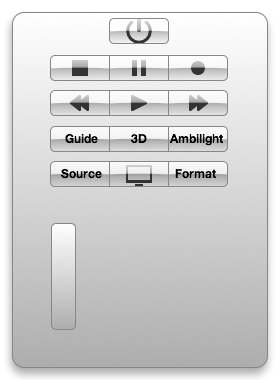
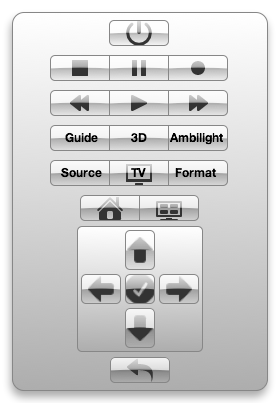
Brand-new design. With arrow-pad

Changed region(s): [[0.0571, 0.1158, 0.9429, 0.9842], [0.0286, 0.0289, 0.9714, 0.0579], [0.4, 0.0868, 0.6, 0.1158]]

diff --git a/philips-remote.dcproj/project/widget.wdgt/main.html b/philips-remote.dcproj/project/widget.wdgt/main.html
@@ -13,9 +13,10 @@
 <body onload="load();" apple-part="com.apple.Dashcode.part.StackLayout">
     <div id="front">
         <img id="frontImg" src="Parts/Images/front.png" alt="" apple-locked="true" apple-part="com.apple.Dashcode.part.frontimage" apple-style="image-theme: 1; image-shape: 3; image-opacity: 1.00; image-top-color: 1.0000,1.0000,1.0000; image-bottom-color: 0.6154,0.6154,0.6154; image-radius: 12,12,12,12; image-border: 1; image-border-color: 0.5294,0.5294,0.5294; image-border-width: 1; shine-strength: 0.9; shine-alpha-level: 0.67; shine-height: 0.50; glass-arc-height: 0.06; shadow-include-shadow: 1; shadow-blur: 9.00; shadow-offset: -1.00,-6.00; shadow-color: 0.0000,0.0000,0.0000,0.3333;">
+        <div id="rectangleShape" apple-part="com.apple.Dashcode.part.roundedrectangleshape" class="apple-no-children" apple-style="image-theme: 1; image-shape: 3; image-button-type: 3; image-opacity: 1.00; image-top-color: 1,1,1,1; image-bottom-color: 0.6154,0.6154,0.6154,1; image-radius: 5,5,5,5; image-border: 1; image-border-color: 0.5294,0.5294,0.5294,1; image-border-width: 1; shine-strength: 0.90; shine-alpha-level: 0.67; shine-height: 0.50; glass-arc-height: 0.06; embossed-on: 0; embossed-depth: 1; embossed-shadow: 0.68; embossed-highlight: 0.3; shadow-include-shadow: 0;"></div>
         <div class="apple-no-children" id="info" apple-part="com.apple.Dashcode.part.infobutton" apple-default-image-visibility="hidden"></div>
-        <div id="rectangleShape" apple-part="com.apple.Dashcode.part.roundedrectangleshape" class="apple-no-children" apple-style="image-theme: 1; image-shape: 3; image-button-type: 3; image-opacity: 1.00; image-top-color: 1,1,1,1; image-bottom-color: 0.6154,0.6154,0.6154,1; image-radius: 5,5,5,5; image-border: 1; image-border-color: 0.5294,0.5294,0.5294,1; image-border-width: 1; shine-strength: 0.90; shine-alpha-level: 0.67; shine-height: 0.50; glass-arc-height: 0.06; shadow-include-shadow: 0;"></div>
-        <div id="box" apple-part="com.apple.Dashcode.part.box">
+        <div id="extend" apple-part="com.apple.Dashcode.part.infobutton" class="info apple-no-children" apple-default-image-visibility="hidden"></div>
+        <div id="box0" apple-part="com.apple.Dashcode.part.box">
             <div id="bP" apple-part="com.apple.Dashcode.part.roundedtextbutton" class="apple-no-children" apple-style="image-theme: 2; image-shape: 3; image-button-type: 0; image-opacity: 1.00; image-top-color: 1,1,1,1; image-bottom-color: 0.6154,0.6154,0.6154,1; image-radius: 5,5,5,5; image-border: 1; image-border-color: 0.5294,0.5294,0.5294,1; image-border-width: 1; shine-on: 1; shine-strength: 0.90; shine-alpha-level: 0.67; shine-height: 0.50; glass-arc-height: 0.06; image-include-custom: 1; image-custom-image-path: bP.png; image-custom-center: 1; image-custom-resize: 2; shadow-include-shadow: 0;"></div>
         </div>
         <div id="box1" apple-part="com.apple.Dashcode.part.box">
@@ -37,6 +38,20 @@
             <div id="bLeft4" apple-part="com.apple.Dashcode.part.roundedleftbutton" class="apple-no-children" apple-style="image-theme: 2; image-shape: 5; image-button-type: 0; image-opacity: 1.00; image-top-color: 1,1,1,1; image-bottom-color: 0.6154,0.6154,0.6154,1; image-radius: 5,-1,5,-1; image-border: 1; image-border-color: 0.5294,0.5294,0.5294,1; image-border-width: 1; shine-on: 1; shine-strength: 0.90; shine-alpha-level: 0.67; shine-height: 0.50; glass-arc-height: 0.06; embossed-on: 0; embossed-depth: 1; embossed-shadow: 0.68; embossed-highlight: 0.3; image-include-custom: 1; shadow-include-shadow: 0;"></div>
             <div id="bRight4" apple-part="com.apple.Dashcode.part.roundedrightbutton" class="apple-no-children" apple-style="image-theme: 2; image-shape: 6; image-button-type: 0; image-opacity: 1.00; image-top-color: 1,1,1,1; image-bottom-color: 0.6154,0.6154,0.6154,1; image-radius: -1,5,-1,5; image-border: 1; image-border-color: 0.5294,0.5294,0.5294,1; image-border-width: 1; shine-on: 1; shine-strength: 0.90; shine-alpha-level: 0.67; shine-height: 0.50; glass-arc-height: 0.06; image-include-custom: 1; shadow-include-shadow: 0;"></div>
             <div id="bMid4" apple-part="com.apple.Dashcode.part.roundedtextbutton" class="apple-no-children" apple-style="image-theme: 2; image-shape: 3; image-button-type: 0; image-opacity: 1.00; image-top-color: 1,1,1,1; image-bottom-color: 0.6154,0.6154,0.6154,1; image-radius: 0,0,0,0; image-border: 1; image-border-color: 0.5294,0.5294,0.5294,1; image-border-width: 1; shine-on: 1; shine-strength: 0.90; shine-alpha-level: 0.67; shine-height: 0.50; glass-arc-height: 0.06; image-include-custom: 1; image-custom-image-path: bMid4 2.png; image-custom-center: 1; image-custom-resize: 2; shadow-include-shadow: 0;"></div>
+        </div>
+        <div id="box5" apple-part="com.apple.Dashcode.part.box">
+            <div id="bLeft5" apple-part="com.apple.Dashcode.part.roundedleftbutton" class="apple-no-children" apple-style="image-theme: 2; image-shape: 5; image-button-type: 0; image-opacity: 1.00; image-top-color: 1,1,1,1; image-bottom-color: 0.6154,0.6154,0.6154,1; image-radius: 5,-1,5,-1; image-border: 1; image-border-color: 0.5294,0.5294,0.5294,1; image-border-width: 1; shine-on: 1; shine-strength: 0.90; shine-alpha-level: 0.67; shine-height: 0.50; glass-arc-height: 0.06; embossed-on: 0; embossed-depth: 1; embossed-shadow: 0.68; embossed-highlight: 0.3; image-include-custom: 1; image-custom-image-path: bLeft5.png; image-custom-center: 1; image-custom-resize: 2; shadow-include-shadow: 0;"></div>
+            <div id="bRight5" apple-part="com.apple.Dashcode.part.roundedrightbutton" class="apple-no-children" apple-style="image-theme: 2; image-shape: 6; image-button-type: 0; image-opacity: 1.00; image-top-color: 1,1,1,1; image-bottom-color: 0.6154,0.6154,0.6154,1; image-radius: -1,5,-1,5; image-border: 1; image-border-color: 0.5294,0.5294,0.5294,1; image-border-width: 1; shine-on: 1; shine-strength: 0.90; shine-alpha-level: 0.67; shine-height: 0.50; glass-arc-height: 0.06; image-include-custom: 1; image-custom-image-path: bRight5.png; image-custom-center: 1; image-custom-resize: 2; shadow-include-shadow: 0;"></div>
+        </div>
+        <div id="box6" apple-part="com.apple.Dashcode.part.box">
+            <div id="bP1" apple-part="com.apple.Dashcode.part.roundedtextbutton" class="apple-no-children" apple-style="image-theme: 2; image-shape: 3; image-button-type: 0; image-opacity: 1.00; image-top-color: 1,1,1,1; image-bottom-color: 0.6154,0.6154,0.6154,1; image-radius: 5,5,5,5; image-border: 1; image-border-color: 0.5294,0.5294,0.5294,1; image-border-width: 1; shine-on: 1; shine-strength: 0.90; shine-alpha-level: 0.67; shine-height: 0.50; glass-arc-height: 0.06; image-include-custom: 1; image-custom-image-path: bP1.png; image-custom-center: 1; image-custom-resize: 2; shadow-include-shadow: 0;"></div>
+        </div>
+        <div id="box7" apple-part="com.apple.Dashcode.part.roundedbox">
+            <div id="button1" apple-part="com.apple.Dashcode.part.roundedtextbutton" class="apple-no-children" apple-style="image-theme: 2; image-shape: 3; image-button-type: 0; image-opacity: 1.00; image-top-color: 1,1,1,1; image-bottom-color: 0.6154,0.6154,0.6154,1; image-radius: 5,5,5,5; image-border: 1; image-border-color: 0.5294,0.5294,0.5294,1; image-border-width: 1; shine-on: 1; shine-strength: 0.90; shine-alpha-level: 0.67; shine-height: 0.50; glass-arc-height: 0.06; embossed-on: 0; embossed-depth: 1; embossed-shadow: 0.68; embossed-highlight: 0.3; image-include-custom: 1; image-custom-image-path: button1.png; image-custom-center: 1; image-custom-resize: 2; shadow-include-shadow: 0;"></div>
+            <div id="button2" apple-part="com.apple.Dashcode.part.roundedtextbutton" class="apple-no-children" apple-style="image-theme: 2; image-shape: 3; image-button-type: 0; image-opacity: 1.00; image-top-color: 1,1,1,1; image-bottom-color: 0.6154,0.6154,0.6154,1; image-radius: 5,5,5,5; image-border: 1; image-border-color: 0.5294,0.5294,0.5294,1; image-border-width: 1; shine-on: 1; shine-strength: 0.90; shine-alpha-level: 0.67; shine-height: 0.50; glass-arc-height: 0.06; image-include-custom: 1; image-custom-image-path: button2 1.png; image-custom-center: 1; image-custom-resize: 2; shadow-include-shadow: 0;"></div>
+            <div id="button3" apple-part="com.apple.Dashcode.part.roundedtextbutton" class="apple-no-children" apple-style="image-theme: 2; image-shape: 3; image-button-type: 0; image-opacity: 1.00; image-top-color: 1,1,1,1; image-bottom-color: 0.6154,0.6154,0.6154,1; image-radius: 5,5,5,5; image-border: 1; image-border-color: 0.5294,0.5294,0.5294,1; image-border-width: 1; shine-on: 1; shine-strength: 0.90; shine-alpha-level: 0.67; shine-height: 0.50; glass-arc-height: 0.06; image-include-custom: 1; image-custom-image-path: button3.png; image-custom-center: 1; image-custom-resize: 2; shadow-include-shadow: 0;"></div>
+            <div id="button4" apple-part="com.apple.Dashcode.part.roundedtextbutton" class="apple-no-children" apple-style="image-theme: 2; image-shape: 3; image-button-type: 0; image-opacity: 1.00; image-top-color: 1,1,1,1; image-bottom-color: 0.6154,0.6154,0.6154,1; image-radius: 5,5,5,5; image-border: 1; image-border-color: 0.5294,0.5294,0.5294,1; image-border-width: 1; shine-on: 1; shine-strength: 0.90; shine-alpha-level: 0.67; shine-height: 0.50; glass-arc-height: 0.06; image-include-custom: 1; image-custom-image-path: button4.png; image-custom-center: 1; image-custom-resize: 2; shadow-include-shadow: 0;"></div>
+            <div id="button" apple-part="com.apple.Dashcode.part.roundedtextbutton" class="apple-no-children" apple-style="image-theme: 2; image-shape: 3; image-button-type: 0; image-opacity: 1.00; image-top-color: 1,1,1,1; image-bottom-color: 0.6154,0.6154,0.6154,1; image-radius: 5,5,5,5; image-border: 1; image-border-color: 0.5294,0.5294,0.5294,1; image-border-width: 1; shine-on: 1; shine-strength: 0.90; shine-alpha-level: 0.67; shine-height: 0.50; glass-arc-height: 0.06; image-include-custom: 1; image-custom-image-path: button 3.png; image-custom-center: 1; image-custom-resize: 2; shadow-include-shadow: 0;"></div>
         </div>
     </div>
     <div id="back">

diff --git a/philips-remote.dcproj/project/widget.wdgt/main.css b/philips-remote.dcproj/project/widget.wdgt/main.css
@@ -93,14 +93,12 @@ body {
 }
 
 #rectangleShape {
-    width: 25px;
-    height: 107px;
+    width: 126px;
+    height: 126px;
     position: absolute;
-    left: 51px;
-    top: 223px;
+    left: 77px;
     right: auto;
-    bottom: auto;
-    margin-top: 0px;
+    top: 226px;
 }
 
 #box1 {
@@ -194,7 +192,7 @@ body {
     height: 36px;
     position: absolute;
     left: 47px;
-    top: 121px;
+    top: 120px;
     margin-top: 0px;
 }
 
@@ -253,7 +251,7 @@ body {
     height: 36px;
     position: absolute;
     left: 47px;
-    top: 156px;
+    top: 155px;
     margin-top: 0px;
 }
 
@@ -304,14 +302,14 @@ body {
     margin-top: 0px;
 }
 
-#box {
+#box0 {
     border-color: black;
     border-width: 1px;
-    width: 70px;
+    width: 184px;
     height: 36px;
     position: absolute;
-    left: 104px;
-    top: 13px;
+    left: 47px;
+    top: 15px;
     margin-top: 0px;
 }
 
@@ -324,8 +322,180 @@ body {
     -khtml-user-select: none;
     height: 26px;
     position: absolute;
-    left: 5px;
+    left: 62px;
     top: 5px;
     right: auto;
+    margin-top: 0px;
+}
+
+#box5 {
+    border-width: 3px !important;
+    border-color: black;
+    width: 184px;
+    height: 36px;
+    position: absolute;
+    left: 47px;
+    top: 190px;
+    margin-top: 0px;
+}
+
+#bLeft5 {
+    font-family: HelveticaNeue-Bold;
+    font-size: 12px;
+    text-align: center;
+    width: 60px;
+    height: 26px;
+    cursor: default;
+    -khtml-user-select: none;
+    position: absolute;
+    left: 33px;
+    top: 5px;
+    right: auto;
+    bottom: auto;
+    margin-top: 0px;
+}
+
+#bRight5 {
+    font-family: HelveticaNeue-Bold;
+    font-size: 12px;
+    text-align: center;
+    width: 60px;
+    height: 26px;
+    -khtml-user-select: none;
+    position: absolute;
+    left: 92px;
+    top: 5px;
+    right: auto;
+    bottom: auto;
+    margin-top: 0px;
+    cursor: default;
+}
+
+#box6 {
+    border-color: black;
+    border-width: 1px;
+    width: 184px;
+    height: 36px;
+    position: absolute;
+    left: 48px;
+    top: 352px;
+}
+
+#bP1 {
+    font-family: HelveticaNeue-Bold;
+    font-size: 12px;
+    text-align: center;
+    width: 60px;
+    cursor: default;
+    -khtml-user-select: none;
+    height: 26px;
+    position: absolute;
+    left: 62px;
+    top: 5px;
+    right: auto;
+    margin-top: 0px;
+}
+
+#box7 {
+    border-width: 1px;
+    border-color: rgb(172, 172, 172);
+    border-top-left-radius: 8px;
+    border-top-right-radius: 8px;
+    border-bottom-right-radius: 8px;
+    border-bottom-left-radius: 8px;
+    width: 118px;
+    height: 118px;
+    position: absolute;
+    left: 81px;
+    top: 230px;
+    right: 0px;
+    margin-top: 0px;
+}
+
+#button1 {
+    font-family: HelveticaNeue-Bold;
+    font-size: 12px;
+    text-align: center;
+    width: 30px;
+    cursor: default;
+    -khtml-user-select: none;
+    height: 40px;
+    position: absolute;
+    left: 44px;
+    top: 0px;
+    right: auto;
+    margin-top: 0px;
+}
+
+#button2 {
+    font-family: HelveticaNeue-Bold;
+    font-size: 12px;
+    text-align: center;
+    width: 40px;
+    cursor: default;
+    -khtml-user-select: none;
+    height: 30px;
+    position: absolute;
+    left: 78px;
+    top: 44px;
+    right: auto;
+    margin-top: 0px;
+    min-height: 30px;
+}
+
+#button3 {
+    font-family: HelveticaNeue-Bold;
+    font-size: 12px;
+    text-align: center;
+    width: 30px;
+    cursor: default;
+    -khtml-user-select: none;
+    height: 40px;
+    position: absolute;
+    left: 44px;
+    top: 78px;
+    right: auto;
+    margin-top: 0px;
+    min-height: 30px;
+}
+
+#button4 {
+    font-family: HelveticaNeue-Bold;
+    font-size: 12px;
+    text-align: center;
+    width: 40px;
+    cursor: default;
+    -khtml-user-select: none;
+    height: 30px;
+    position: absolute;
+    left: 0px;
+    top: 44px;
+    right: auto;
+    margin-top: 0px;
+    min-height: 30px;
+}
+
+#button {
+    font-family: HelveticaNeue-Bold;
+    font-size: 12px;
+    text-align: center;
+    width: 30px;
+    cursor: default;
+    -khtml-user-select: none;
+    height: 30px;
+    position: absolute;
+    left: 44px;
+    top: 44px;
+    margin-top: 0px;
+}
+
+#extend {
+    width: 13px;
+    height: 13px;
+    position: absolute;
+    left: 18px;
+    top: 372px;
+    right: auto;
+    bottom: auto;
     margin-top: 0px;
 }

diff --git a/philips-remote.dcproj/project/widget.wdgt/Parts/setup.js b/philips-remote.dcproj/project/widget.wdgt/Parts/setup.js
@@ -9,17 +9,28 @@ var dashcodePartSpecs = {
     "bLeft2": { "creationFunction": "CreateButton", "leftImageWidth": 5, "rightImageWidth": 1 },
     "bLeft3": { "creationFunction": "CreateButton", "leftImageWidth": 5, "rightImageWidth": 1, "text": "Guide" },
     "bLeft4": { "creationFunction": "CreateButton", "leftImageWidth": 5, "rightImageWidth": 1, "text": "Source" },
+    "bLeft5": { "creationFunction": "CreateButton", "leftImageWidth": 5, "rightImageWidth": 1 },
     "bMid1": { "creationFunction": "CreateButton", "leftImageWidth": 1, "rightImageWidth": 1 },
     "bMid2": { "creationFunction": "CreateButton", "leftImageWidth": 1, "rightImageWidth": 1 },
     "bMid3": { "creationFunction": "CreateButton", "leftImageWidth": 1, "rightImageWidth": 1, "text": "3D" },
-    "bMid4": { "creationFunction": "CreateButton", "leftImageWidth": 1, "rightImageWidth": 1 },
+    "bMid4": { "creationFunction": "CreateButton", "leftImageWidth": 1, "rightImageWidth": 1, "text": "TV" },
     "bP": { "creationFunction": "CreateButton", "leftImageWidth": 5, "rightImageWidth": 5 },
+    "bP1": { "creationFunction": "CreateButton", "leftImageWidth": 5, "rightImageWidth": 5 },
     "bRight1": { "creationFunction": "CreateButton", "leftImageWidth": 1, "rightImageWidth": 5 },
     "bRight2": { "creationFunction": "CreateButton", "leftImageWidth": 1, "rightImageWidth": 5 },
     "bRight3": { "creationFunction": "CreateButton", "leftImageWidth": 1, "rightImageWidth": 5, "text": "Ambilight" },
     "bRight4": { "creationFunction": "CreateButton", "leftImageWidth": 1, "rightImageWidth": 5, "text": "Format" },
+    "bRight5": { "creationFunction": "CreateButton", "leftImageWidth": 1, "rightImageWidth": 5 },
+    "button": { "creationFunction": "CreateButton", "leftImageWidth": 5, "rightImageWidth": 5 },
+    "button1": { "creationFunction": "CreateButton", "leftImageWidth": 5, "rightImageWidth": 5 },
+    "button2": { "creationFunction": "CreateButton", "leftImageWidth": 5, "rightImageWidth": 5 },
+    "button3": { "creationFunction": "CreateButton", "leftImageWidth": 5, "rightImageWidth": 5 },
+    "button4": { "creationFunction": "CreateButton", "leftImageWidth": 5, "rightImageWidth": 5 },
     "done": { "creationFunction": "CreateGlassButton", "onclick": "showFront", "text": "Done" },
+    "extend": { "backgroundStyle": "black", "creationFunction": "CreateInfoButton", "foregroundStyle": "white", "frontID": "front", "onclick": "extendRC" },
     "info": { "backgroundStyle": "black", "creationFunction": "CreateInfoButton", "foregroundStyle": "white", "frontID": "front", "onclick": "showBack" },
     "rectangleShape": { "creationFunction": "CreateShape", "leftImageWidth": 5, "rightImageWidth": 5 }
 };
+
+
 

diff --git a/philips-remote.dcproj/project/widget.wdgt/main.js b/philips-remote.dcproj/project/widget.wdgt/main.js
@@ -108,3 +108,9 @@ if (window.widget) {
     widget.onshow = show;
     widget.onsync = sync;
 }
+
+
+function extendRC(event)
+{
+    // ExtendRC with numeric pad
+}
